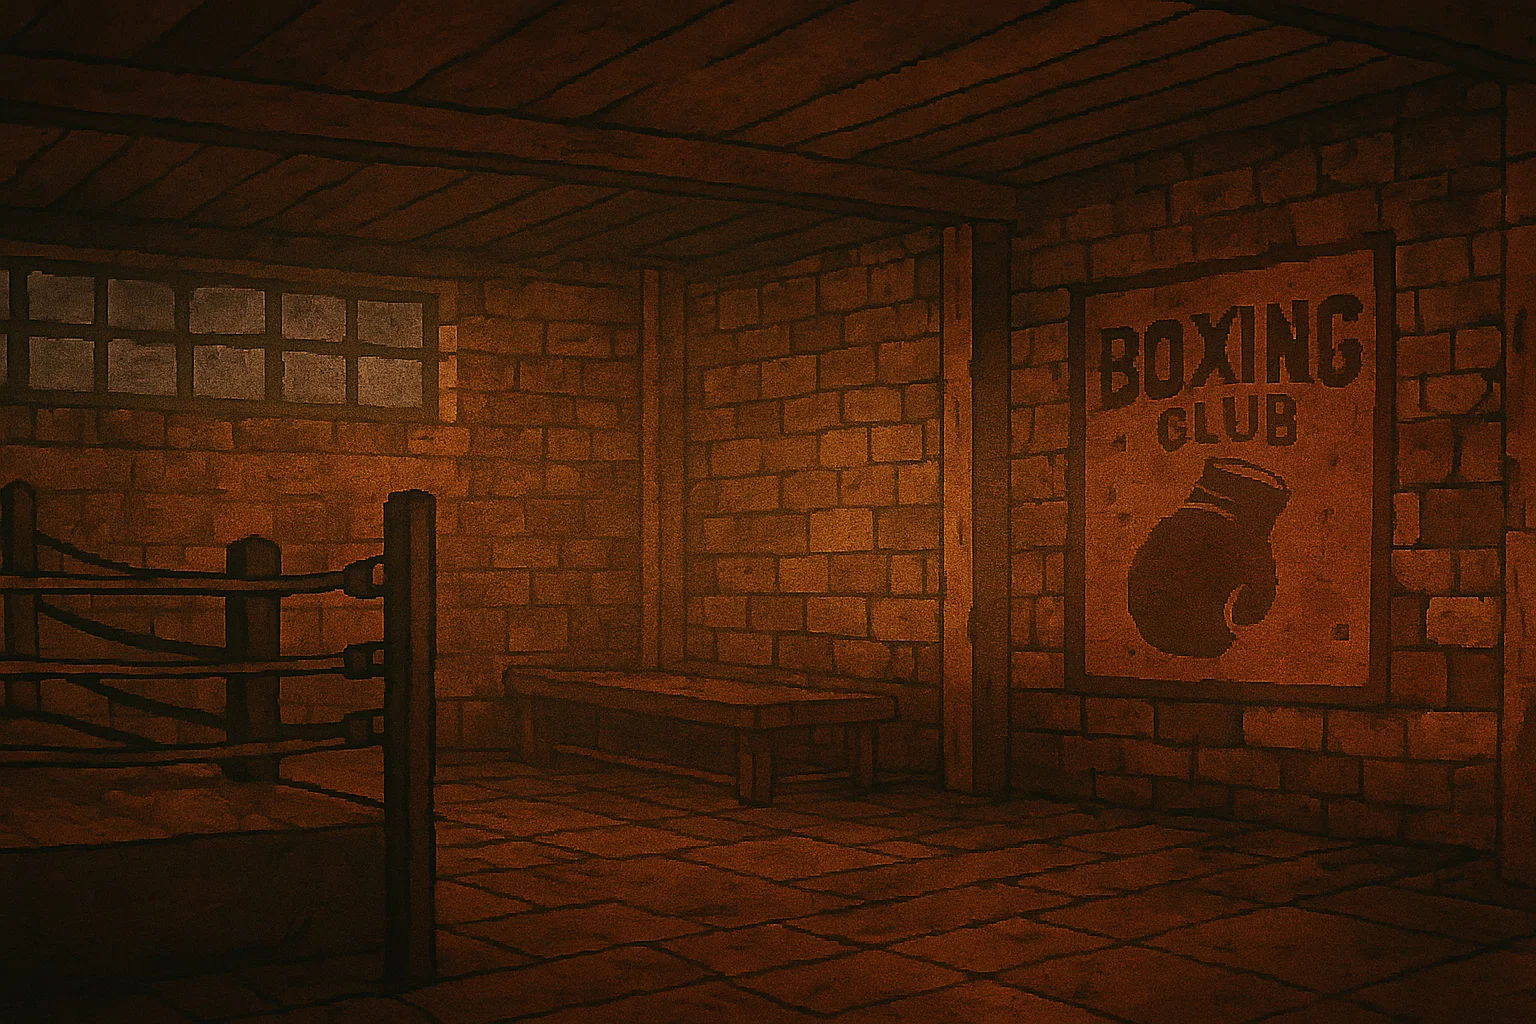
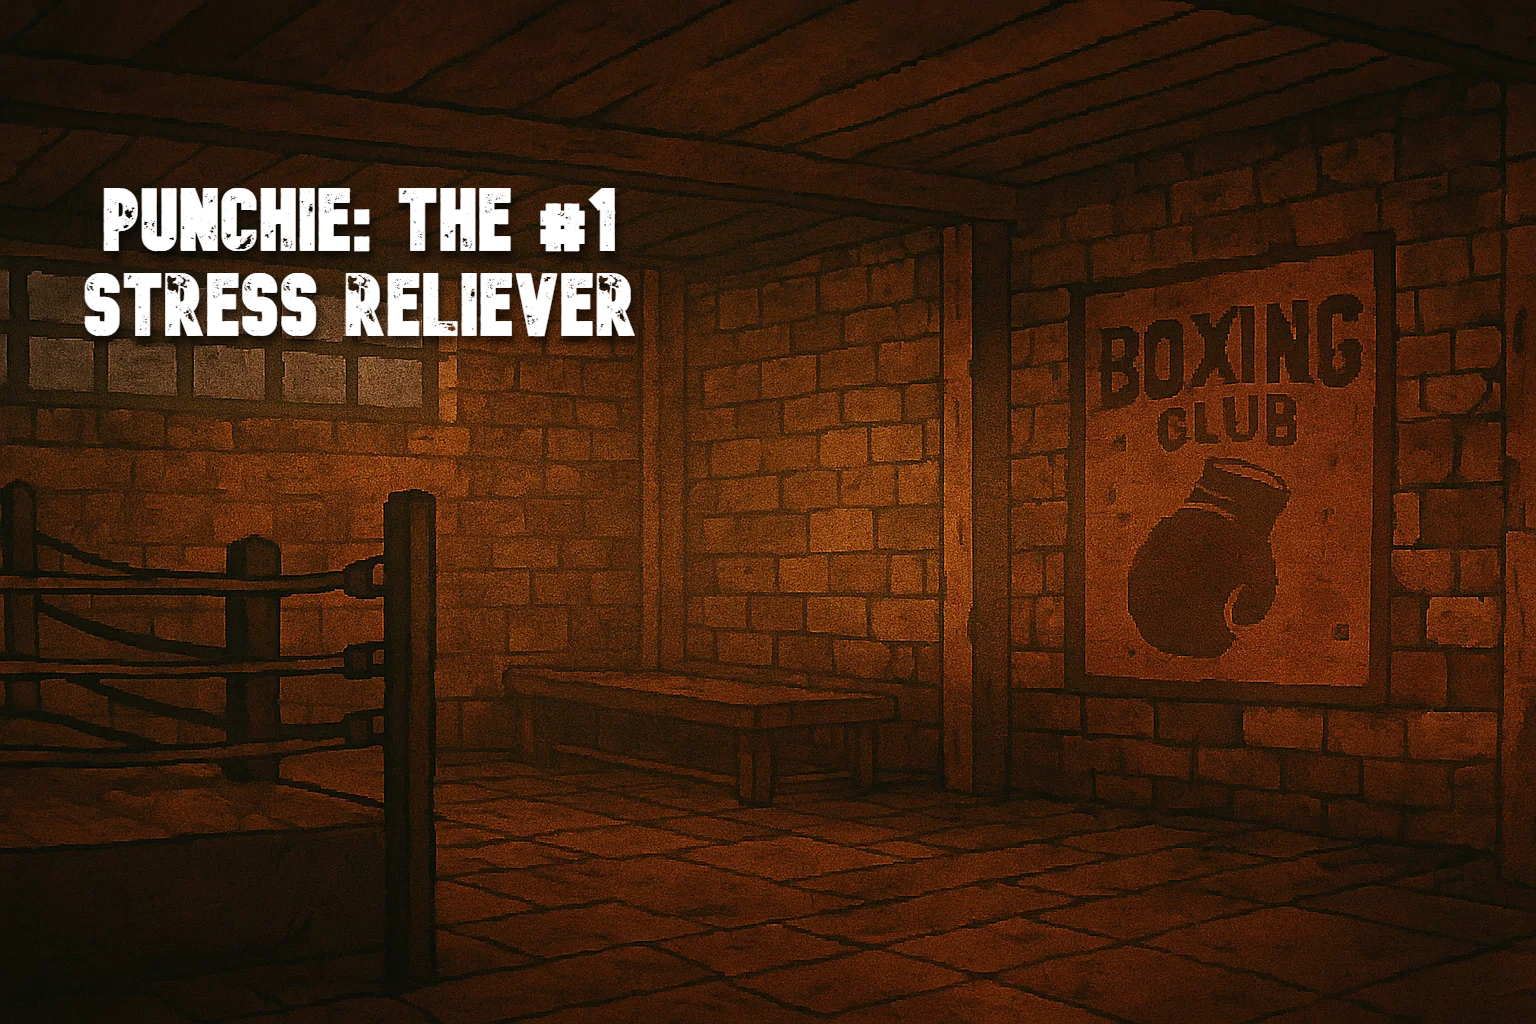
final commit for the day of hackathon

Changed region(s): [[0.0312, 0.1562, 0.4375, 0.3438]]

diff --git a/punchingbag-frontend/src/App.css b/punchingbag-frontend/src/App.css
@@ -20,9 +20,8 @@ body {
 /* compact, wide speech bubble */
 .ai-bubble {
   /* responsive width: between 280px and 60vw, ideal is 36vw */
-  width: clamp(280px, 36vw, 60vw);
-  max-width: 60vw;
-  min-width: 220px;
+  max-width: 5000px;
+  min-width: 500px;
 
   /* limit vertical size so the bubble doesn't push layout; allow scrolling inside */
   max-height: min(28vh, 220px);
@@ -109,15 +108,10 @@ body {
   justify-content: flex-start;
 }
 
-/* Center column heading color (e.g. "Enter Complaints") */
-.container > div:nth-child(2) h3 {
-  color: #ffffff;
-  margin: 12px 0 8px 0;
-}
-
 .chatwindow {
   /* Make the chat window a left column with a fixed width so it contains AIResponse */
-  padding: 12px;
+  padding-right: 150px;
+  padding-top: 190px;
   height: auto;
   width: 100%;
   box-sizing: border-box;
@@ -128,4 +122,59 @@ body {
   flex-direction: column;
   align-items: flex-end; /* right-align bubbles inside the chat column */
   gap: 8px;
+}
+
+.bag-container {
+  position: fixed;
+  top: 0;
+  left: 50%;
+  transform: translateX(-50%);
+  z-index: 100;
+}
+
+/* lower-left fixed textbox */
+.corner-textbox {
+  position: fixed;
+  bottom: -5px; /* move further from top */
+  left: 18px; /* move further from left edge */
+  z-index: 1200;
+  /* wider across viewports: larger min, larger preferred vw, larger max */
+  width: 500px;
+  height: 300px;
+  padding: 30px; /* slightly larger outer padding */
+  box-shadow: 0 6px 14px #00000014;
+  box-sizing: border-box;
+  background: transparent; /* input provides the visible surface */
+}
+
+.corner-textbox .corner-input {
+  width: 100%;
+  height: 160px; /* fixed requested height */
+  overflow: auto; /* allow scrolling when content exceeds fixed height */
+  resize: none; /* disable manual resize */
+  padding: 10px 14px; /* more space inside so text isn't flush */
+  border-radius: 0; /* square corners */
+  border: 2px inset #9a9a9a; /* older inset look */
+  background: #f5f3e6; /* slightly aged paper color */
+  font-size: 14px;
+  line-height: 1.2;
+  color: #111;
+  outline: none;
+  box-shadow: inset 0 2px 4px rgba(0,0,0,0.06);
+  transition: box-shadow 120ms ease, border-color 120ms ease;
+ 	font-family: "Courier New", monospace; /* older, typewriter feel */
+  box-sizing: border-box;
+}
+
+.corner-textbox .corner-input::placeholder {
+  color: #7a6f5f;
+}
+
+.corner-textbox .corner-input:focus {
+  border-color: #000; /* black focus border like other inputs */
+  box-shadow: 0 4px 12px rgba(0,0,0,0.12);
+}
+
+.whitetext {
+  color: white
 }

diff --git a/punchingbag-frontend/src/App.jsx b/punchingbag-frontend/src/App.jsx
@@ -4,12 +4,13 @@ import UserTextBox from './components/UserTextBox.jsx'
 import StressTracker from './components/graph.jsx'
 import AIResponse from "./components/AIResponse"
 import Bag from './components/Bag.jsx'
+import SubSurf from './assets/SubwaySurfers.gif'
 
 function App() {
   const [count, setCount] = useState(0)
   const [aiResponse, setAiResponse] = useState(null)
   const [messages, setMessages] = useState([])
-
+  const [cornerText, setCornerText] = useState('')
 
   const handleSendMessage = async (message) => {
     try {
@@ -28,18 +29,29 @@ function App() {
 
   return (
     <>
+      {/* lower-left fixed textbox */}
+      <div className="corner-textbox">
+        <img src={SubSurf} alt="subway surfers" style={{position: 'absolute', left: 60, top: -120, width: 128, height: 128, opacity: 0.8}} />
+        <textarea
+          className="corner-input"
+          placeholder="Welcome to Punchie: the number one stress relief companion on the market. Enter all your complaints and frustrations and Punchie will give you sage advice in return. If you are unsatisfied with the advice, click Punchie to knock him around and watch his condition worsen. Remember to enter your stress level periodically so you can watch it decrease in real time!" 
+          value={cornerText}
+          onChange={(e) => setCornerText(e.target.value)}
+          aria-label="Corner textbox"
+        />
+      </div>
 
       <div style={{padding: 24}}>
-        <div class="container">
+        <div className="container">
           <div>
-            <div class="chatwindow">
+            <div className="chatwindow">
               <AIResponse response={aiResponse} />
             </div>
           </div>
 
-          <div> 
+          <div className="bag-container">
             <Bag/>
-            <h3>Enter Complaints</h3>
+            <div className="whitetext">Enter Complaints Below</div>
             <UserTextBox onSend={handleSendMessage}/>
           </div>
 
@@ -47,7 +59,6 @@ function App() {
            <StressTracker />
           </div>
         </div>
-        
       </div>
     </>
   )

diff --git a/punchingbag-frontend/src/components/Bag.jsx b/punchingbag-frontend/src/components/Bag.jsx
@@ -9,9 +9,6 @@ import Stage4 from '../assets/Stage 4.png'
 import Dead from '../assets/Stage 5 Dead.png'
 import Hover0 from '../assets/Stage 0 Hover.png'
 import Hover1 from '../assets/Stage 1 Hover.png'
-import Hover2 from '../assets/Stage 2 Hover.png'
-import Hover3 from '../assets/Stage 3 Hover.png'
-import Hover4 from '../assets/Stage 4 Hover.png'
 
 const Bag = () => {
     const [useCustomCursor, toggleCustomCursor] = useState(false);
@@ -27,7 +24,7 @@ const Bag = () => {
             setStage(stage + 1);
         }
         setTimeout(() => {
-            hoverImage();
+            updateImage();
         }, 500);
     }
 

diff --git a/punchingbag-frontend/src/components/UserTextBox.jsx b/punchingbag-frontend/src/components/UserTextBox.jsx
@@ -57,7 +57,7 @@ function UserTextBox({ onSend = () => {} }) {
                 <textarea
                     ref={textareaRef}
                     className="user-textbox-input"
-                    placeholder="Type a message... (Enter to send, Shift+Enter for newline)"
+                    placeholder="Type a message... (Enter to send)"
                     value={text}
                     onChange={(e) => setText(e.target.value)}
                     onKeyDown={handleKeyDown}

diff --git a/punchingbag-frontend/src/components/graph.jsx b/punchingbag-frontend/src/components/graph.jsx
@@ -3,7 +3,7 @@ import '../css/graph.css';
 
 function StressTracker() {
 	const [ratings, setRatings] = useState([]); // [{rating, timestamp}]
-	const maxBars = 10; // Maximum bars to show before removing the top one
+	const maxBars = 8; // Maximum bars to show before removing the top one
 
 	// Get color based on stress level
 	const getStressColor = (level) => {

diff --git a/punchingbag-frontend/src/css/AIResponse.css b/punchingbag-frontend/src/css/AIResponse.css
@@ -16,10 +16,13 @@
 .ai-response h2 {
   margin: 0 0 6px 0;
   font-size: 1rem;
+  font-family: "Courier New", monospace; /* older, typewriter feel */
+
 }
 
 .ai-response p {
   margin: 0;
+font-family: "Courier New", monospace; /* older, typewriter feel */
 }
 
 /* Diamond-style tail pointing to the right (towards center column) */
